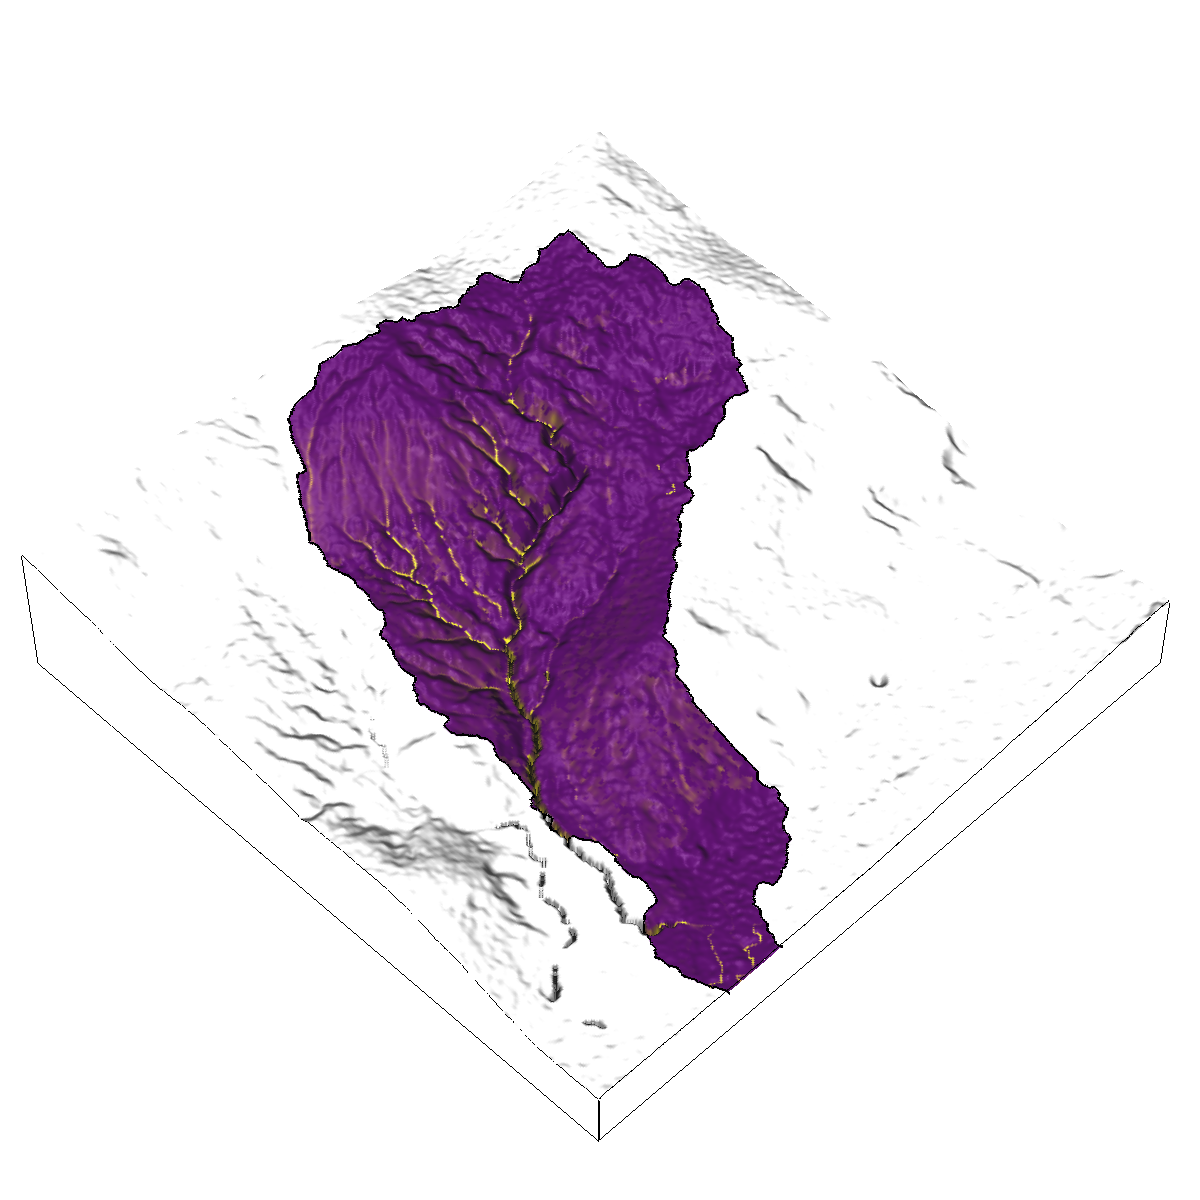
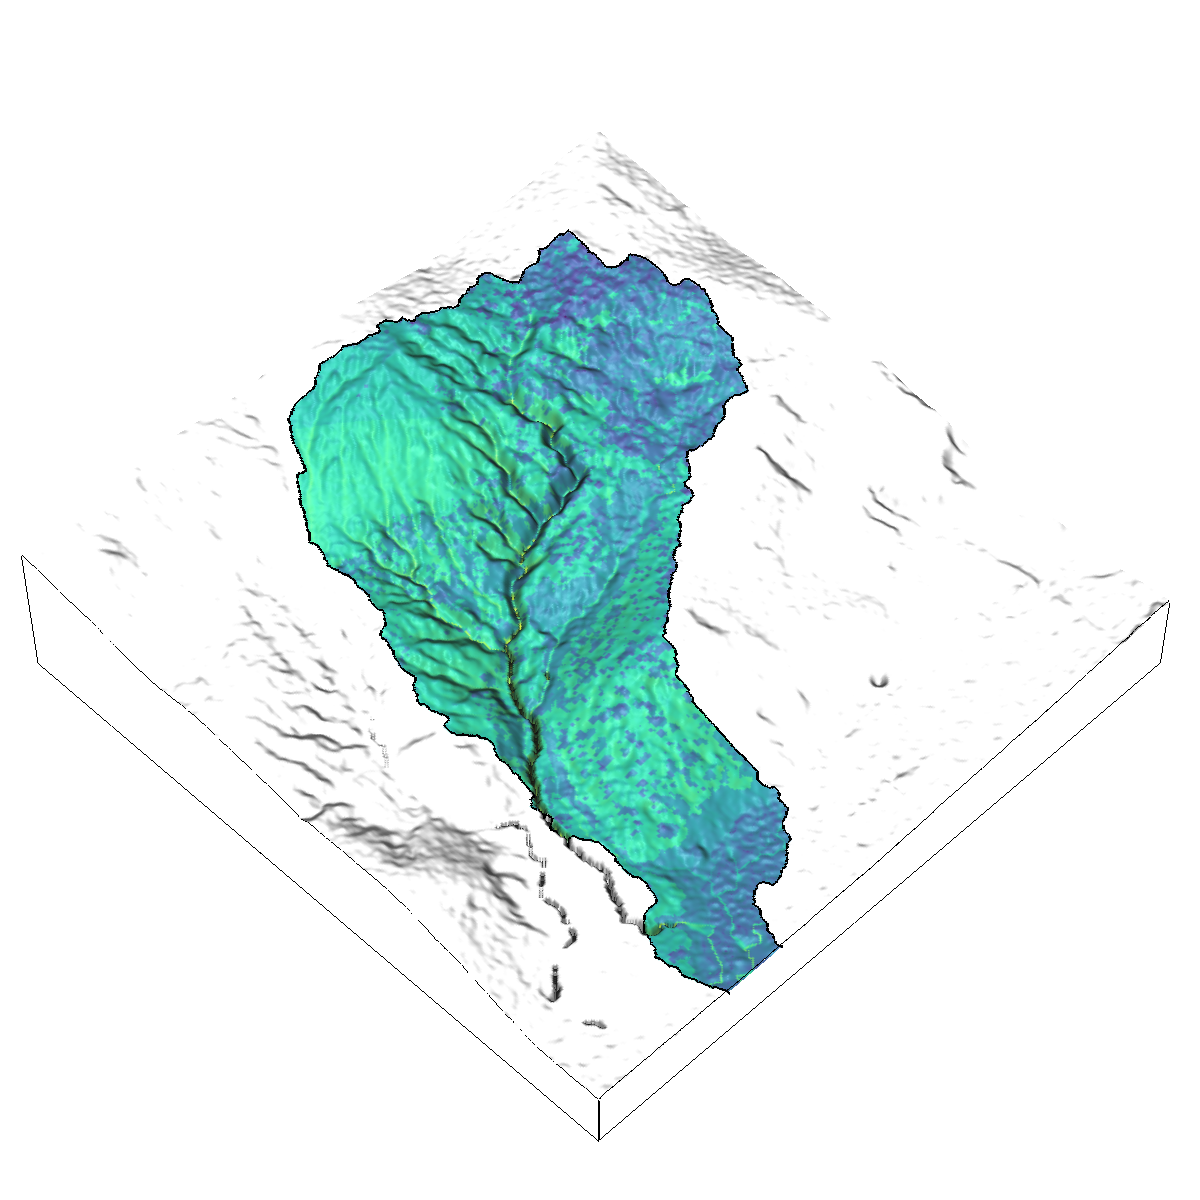
updated maps

Changed region(s): [[0.2467, 0.185, 0.6783, 0.8325]]

diff --git a/scripts/render_sample_data.py b/scripts/render_sample_data.py
@@ -52,10 +52,11 @@ def main():
 
     """render 2d maps"""
     # render_region_2d()
-    render_fortbragg_2d()
+    render_map_elements()
+    # render_fortbragg_2d()
 
     """render 3d maps"""
-    # render_region_3d()
+    render_region_3d()
     # render_fortbragg_3d()
 
     atexit.register(cleanup)
@@ -218,7 +219,7 @@ def render_region_2d():
         raster='flow_accumulation_2016',
         fontsize=fontsize,
         at=legend_coord,
-        flags='n')
+        flags='nl')
     gscript.run_command('d.mon', stop=driver)
 
     # render ls factor
@@ -236,7 +237,8 @@ def render_region_2d():
         raster='ls_factor',
         fontsize=fontsize,
         at=legend_coord,
-        flags='n')
+        labelnum='2',
+        flags='nl')
     gscript.run_command('d.mon', stop=driver)
 
     # render sediment flow
@@ -254,7 +256,8 @@ def render_region_2d():
         raster='sediment_flow_2016',
         fontsize=fontsize,
         at=legend_coord,
-        flags='n')
+        labelnum='2',
+        flags='nl')
     gscript.run_command('d.mon', stop=driver)
 
     # render sediment flux
@@ -272,6 +275,8 @@ def render_region_2d():
         raster='sediment_flux_2016',
         fontsize=fontsize,
         at=legend_coord,
+        range='0,1',
+        digits='2',
         flags='n')
     gscript.run_command('d.mon', stop=driver)
 
@@ -290,6 +295,7 @@ def render_region_2d():
         raster='erosion_deposition_2016',
         fontsize=fontsize,
         at=legend_coord,
+        range='-0.1,0.1',
         flags='n')
     gscript.run_command('d.mon', stop=driver)
 
@@ -566,6 +572,33 @@ def render_fortbragg_3d():
         errors='ignore'
         )
 
+def render_map_elements():
+    """render a scale bar and north arrow"""
+
+    # create rendering directory
+    render = os.path.join(gisdbase, 'images', 'sample_data')
+    if not os.path.exists(render):
+        os.makedirs(render)
+
+    # set region
+    gscript.run_command('g.region', region='region', res=res)
+
+    # render map scale bar and north arrow
+    gscript.run_command('d.mon',
+        start=driver,
+        width=width,
+        height=height,
+        output=os.path.join(render, 'map_elements'+'.png'),
+        overwrite=overwrite)
+    gscript.run_command('d.northarrow',
+        style='6',
+        at='90.0,10.0',
+        flags='t')
+    gscript.run_command('d.barscale',
+        at='63,5.0',
+        segment=2,
+        fontsize=fontsize)
+    gscript.run_command('d.mon', stop=driver)
 
 def cleanup():
     try:

diff --git a/scripts/render_simulations.py b/scripts/render_simulations.py
@@ -221,7 +221,7 @@ def render_region_2d(mapset):
         gscript.run_command('r.colors',
             map='flux_{time}'.format(time=end_time),
             color='viridis',
-            flags='e')
+            flags='g')
         gscript.run_command('d.shade',
             shade='shaded_relief',
             color='flux_{time}'.format(time=end_time),
@@ -229,7 +229,9 @@ def render_region_2d(mapset):
         gscript.run_command('d.legend',
             raster='flux_{time}'.format(time=end_time),
             fontsize=fontsize,
-            at=legend_coord)
+            labelnum='2',
+            at=legend_coord,
+            flags='l')
         gscript.run_command('d.mon', stop=driver)
 
     # remove mask
@@ -371,18 +373,6 @@ def render_region_3d(mapset):
                 size=size,
                 errors='ignore'
                 )
-
-            # render legend
-            gscript.run_command('r.out.legend',
-                raster=raster,
-                file=os.path.join(render,'legend_'+raster+'.png'),
-                dimensions=[50,400],
-                unit='px',
-                resolution='300',
-                color='none',
-                digits=4,
-                fontsize=6,
-                overwrite=overwrite)
 
     # remove temporary maps
     gscript.run_command(
